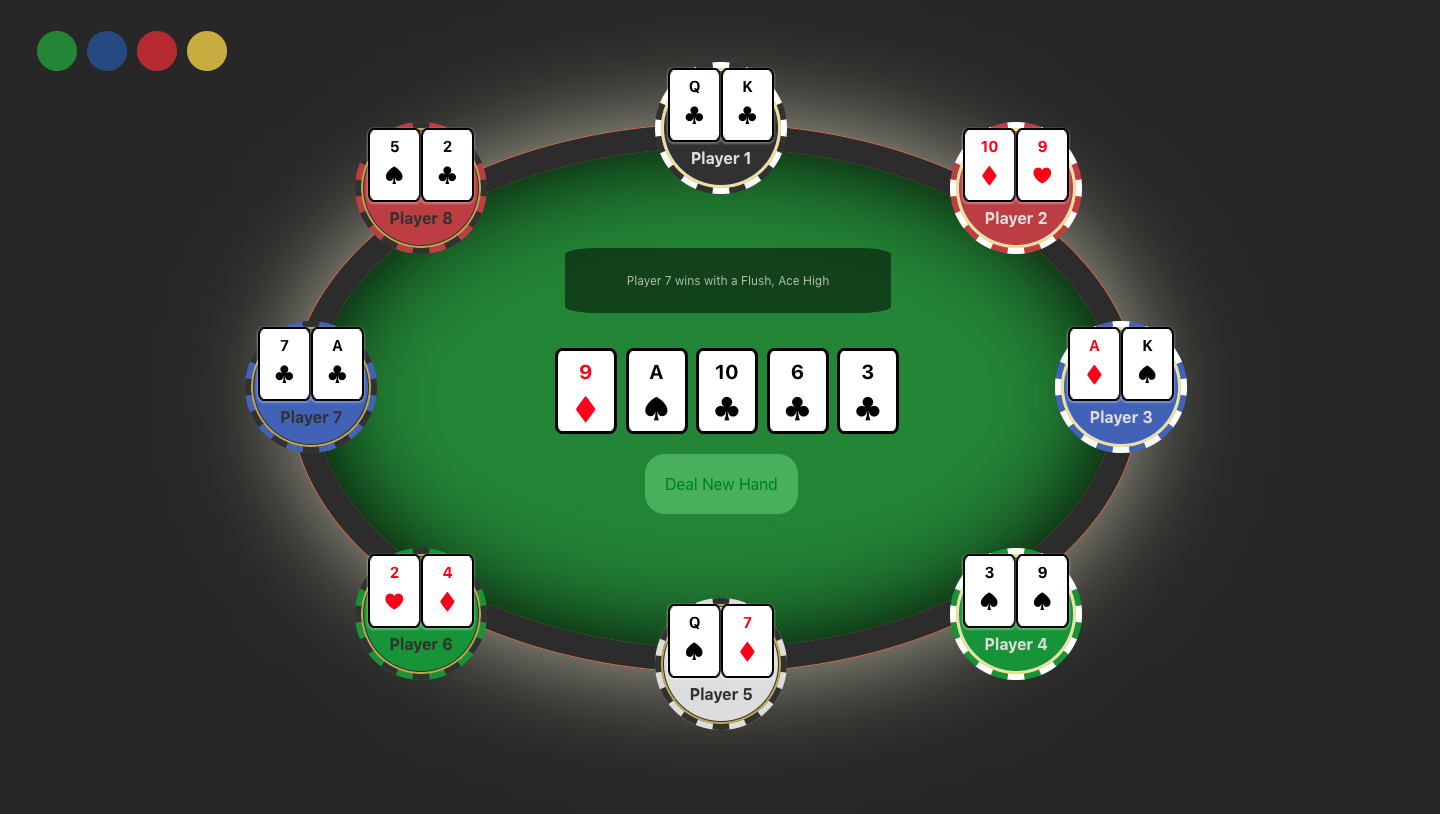
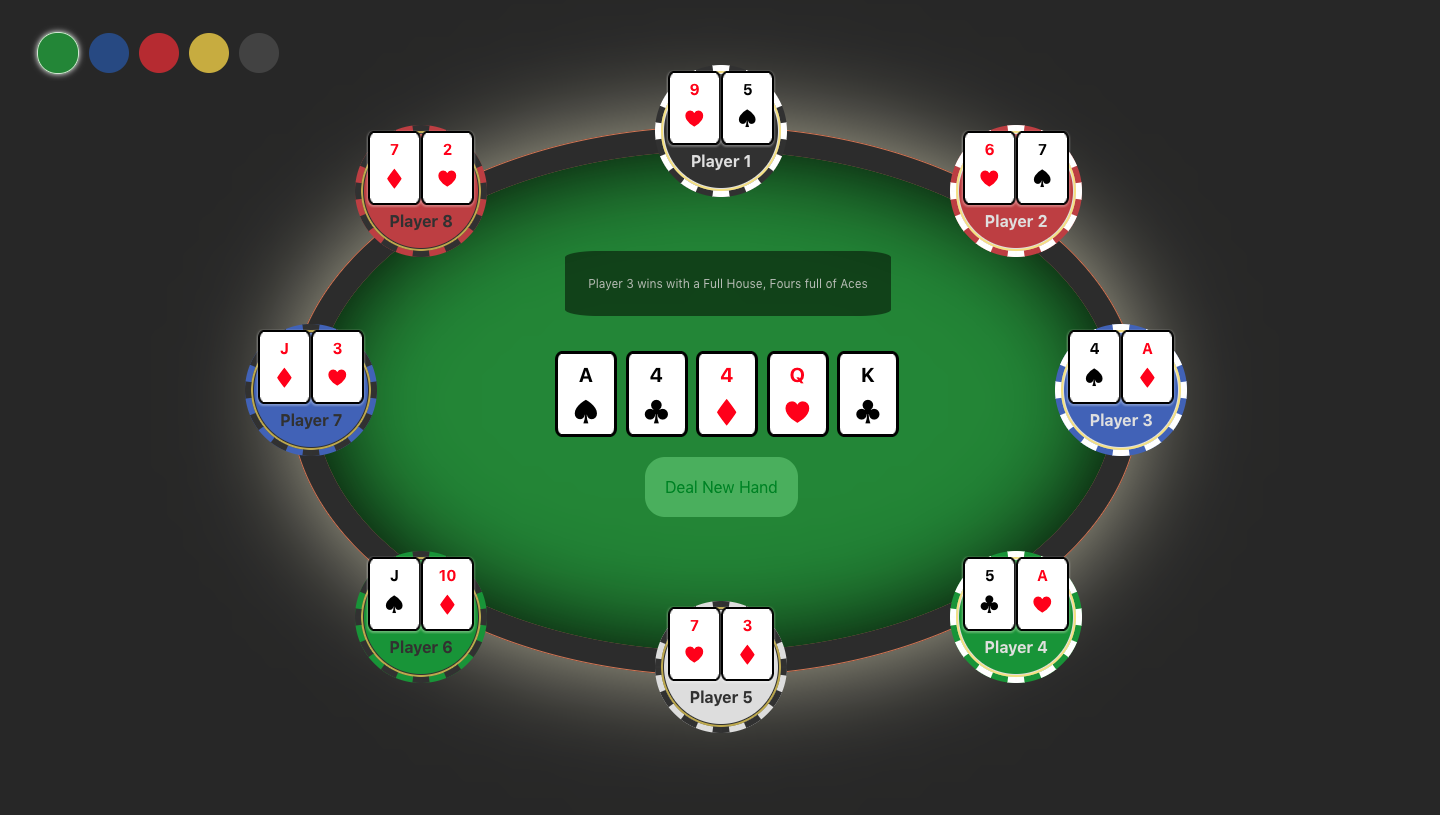
updated readme

diff --git a/README.md b/README.md
@@ -4,7 +4,7 @@
 
 ### Overview
 
-React application that allows a user to deal an open hand of Texas Hold'em. The table displays all of the players cards, and the outcome of the round.
+React application that allows a user to deal an open hand of Texas Hold'em. The table displays all of the players cards, and the outcome of the round. The table also allows a user to change the colour of the table.
 API from https://texas-holdem-hand-generator.herokuapp.com/
 
 ### Routes
